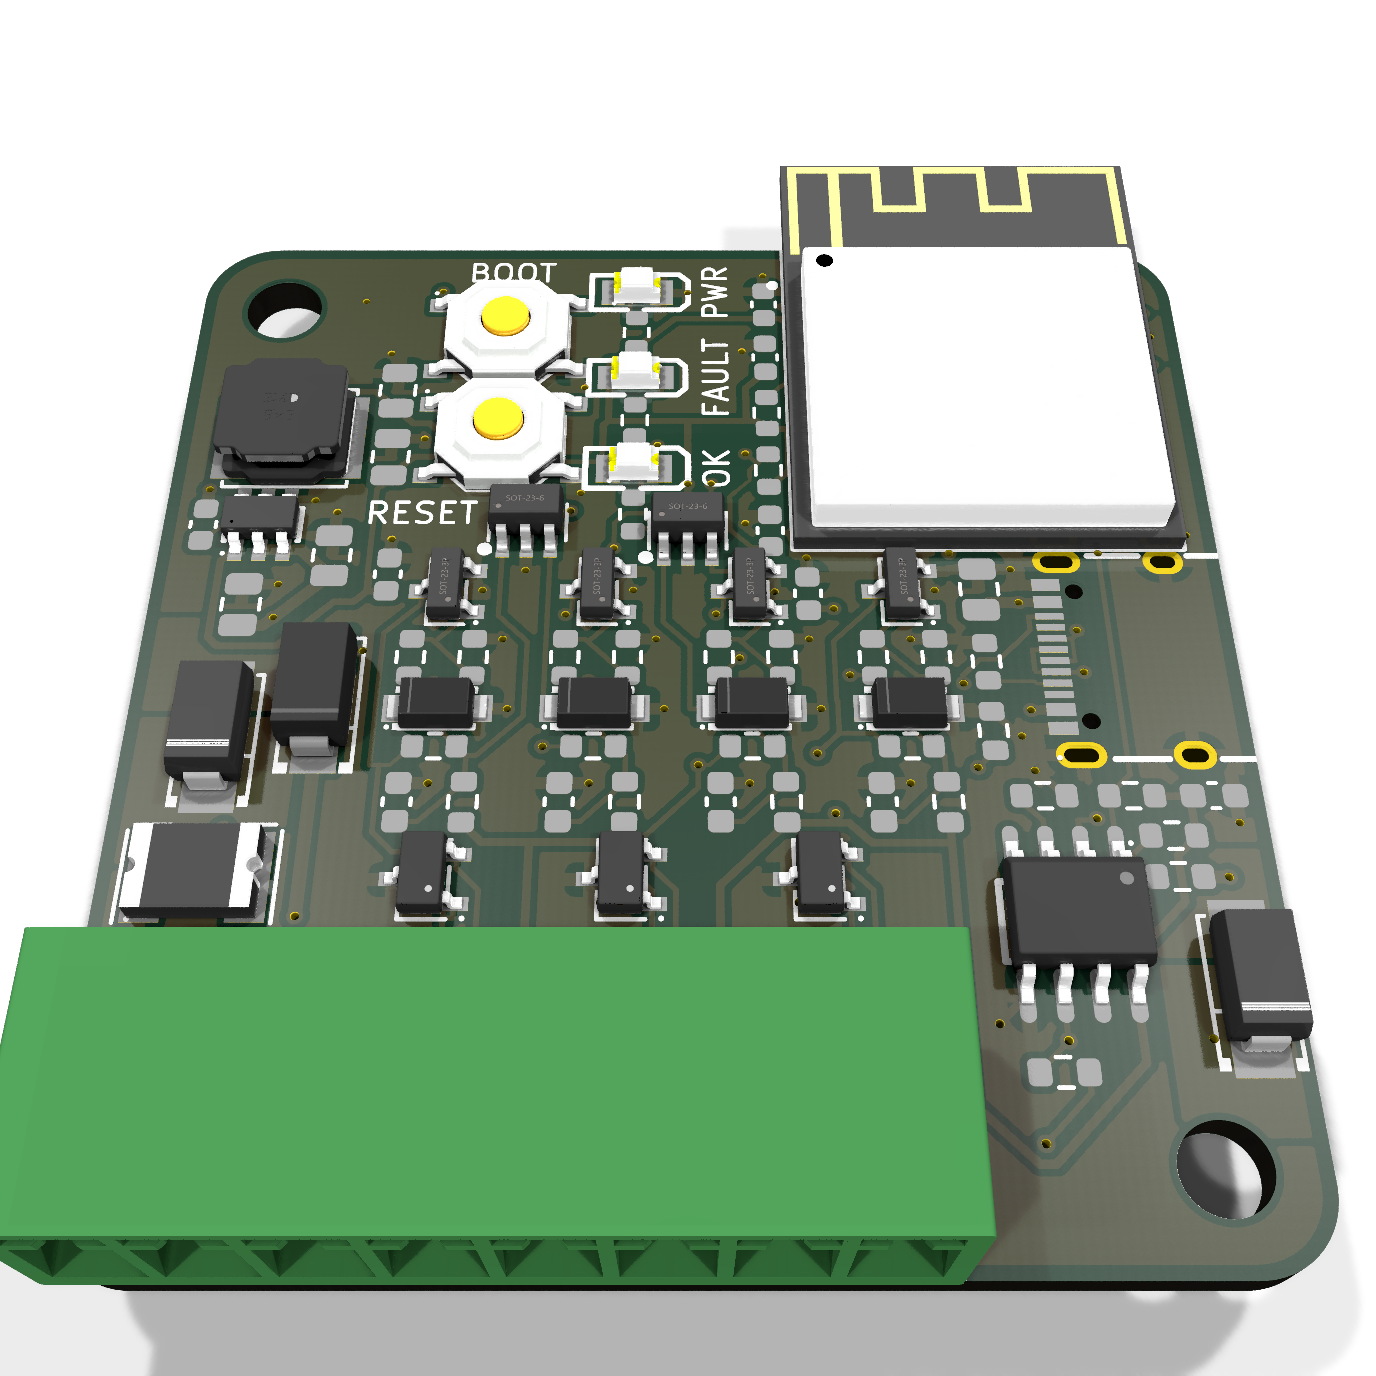
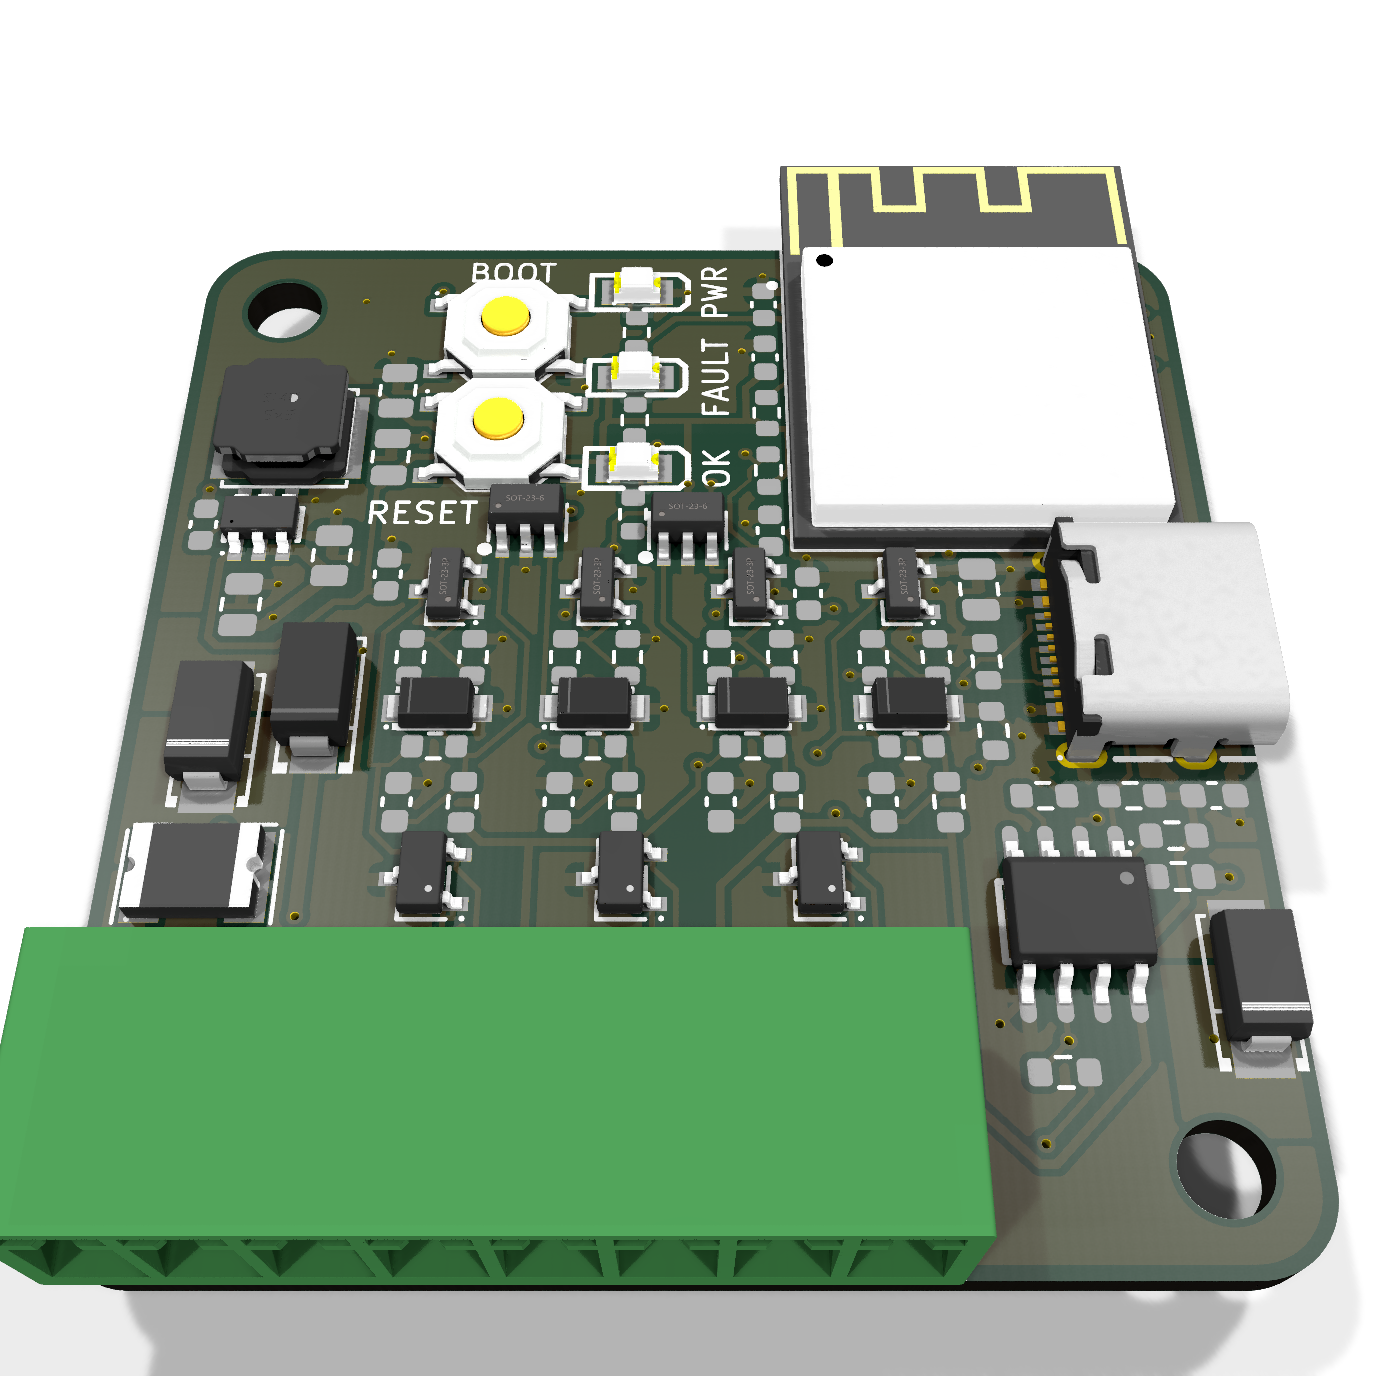
Renders: USB-C 3D model added, DC jack model turned to face the board edge; LITE renders and size comparison regenerated
Render-only: the footprints and pads were right. The DC-005 model from EasyEDA sits backwards
and off its outline; build_pcb.py now corrects it. The USB-C model was never fetched.

Changed region(s): [[0.7188, 0.375, 0.9375, 0.625]]

diff --git a/hardware/build_pcb.py b/hardware/build_pcb.py
@@ -186,6 +186,13 @@ def main():
         assert fp is not None, (ref, lib, name)
         fp.SetReference(ref)
         fp.SetValue(value)
+        if ref == "J14":                       # EasyEDA's DC-005 model sits backwards (mouth inboard) and off
+            models = fp.Models()             # its outline: render only, the footprint and pads are right
+            for k in range(len(models)):     # (measured 2026-10-21; editing the vector in place does not save)
+                m = models[k]
+                m.m_Rotation.z = 270.0
+                m.m_Offset.x, m.m_Offset.y, m.m_Offset.z = -1.4, 7.9, 0.0
+                models[k] = m
         for f in fp.GetFields():
             if not f.IsReference():
                 f.SetVisible(False)
